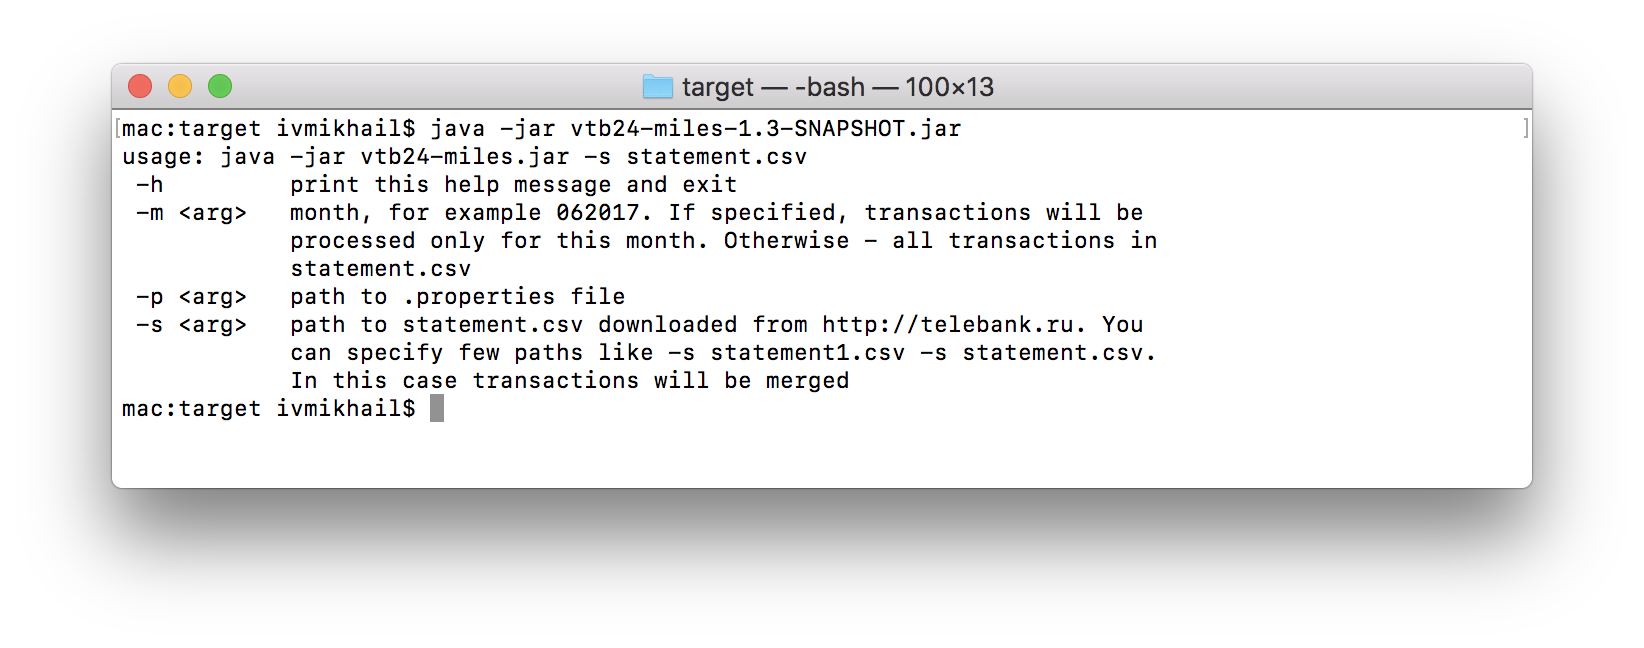
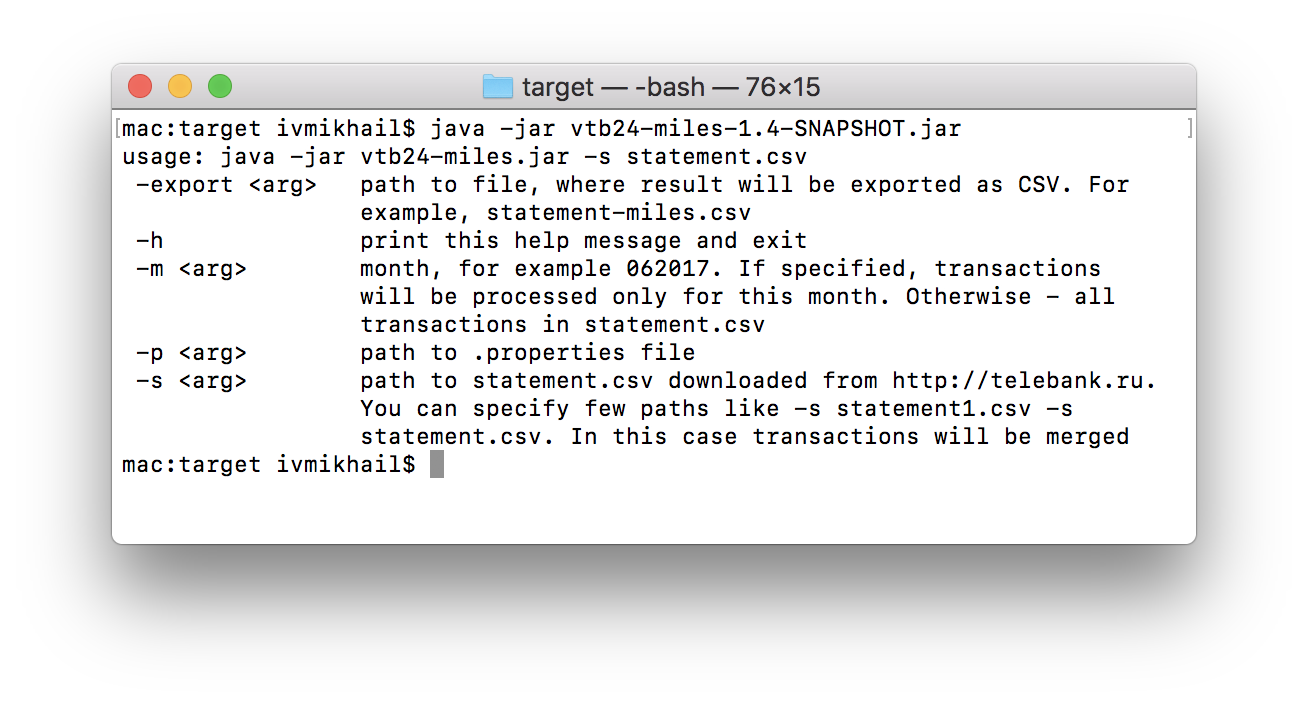
Fixed out charset on Win, export to csv feature

Changed region(s): [[0.0612, 0.0926, 0.948, 0.7716]]

diff --git a/src/main/java/com/github/ivmikhail/App.java b/src/main/java/com/github/ivmikhail/App.java
@@ -1,11 +1,7 @@
 package com.github.ivmikhail;
 
-import com.github.ivmikhail.fx.vtb.VTBFxProvider;
 import com.github.ivmikhail.reward.MilesRewardRule;
-import freemarker.template.Configuration;
-import freemarker.template.Template;
-import freemarker.template.TemplateException;
-import freemarker.template.TemplateExceptionHandler;
+import com.github.ivmikhail.reward.RewardResult;
 import org.apache.commons.cli.*;
 
 import java.io.*;
@@ -27,53 +23,42 @@ public final class App {
     private static final String OPT_MONTH = "m";
     private static final String OPT_PROPS_PATH = "p";
     private static final String OPT_HELP = "h";
-    private static final Options OPTS = createOptions();
+    private static final String OPT_EXPORT_PATH = "export";
 
-    private static final String TEMPLATES_CLASSPATH_DIR = "/templates";
-    private static final String TEMPLATE_REWARD_RESULT = "rewardResult.ftl";
+    private static final Options OPTS = createOptions();
 
     private App() {/* static class with Main method, no need to initialize */}
 
-    public static void main(String[] args) throws IOException, java.text.ParseException, TemplateException, InterruptedException {
+    public static void main(String[] args) throws IOException, java.text.ParseException {
         tryToMakeWorldBetter();
 
-        Settings settings = null;
+        CommandLine cli = null;
         try {
-            settings = parse(args);
+            cli = parse(args);
         } catch (org.apache.commons.cli.ParseException e) {
             printHelp(OPTS);
             System.exit(1);
         }
 
-        List<Transaction> transactions = CSVLoader.load(settings);
-        MilesRewardRule rule = new MilesRewardRule(settings.getProperties());
-        rule.setFxProvider(new VTBFxProvider(settings.getProperties()));
+        Settings settings = get(cli);
+        MilesRewardRule rule = new MilesRewardRule(settings);
+        RewardResult reward = rule.process();
 
-        Map model = new HashMap();
-        model.put("reward", rule.process(transactions));
-        model.put("settings", settings);
-
-        Template template = createTemplateEngine().getTemplate(TEMPLATE_REWARD_RESULT);
-        Writer out = new OutputStreamWriter(System.out);
-        template.process(model, out);
+        if(cli.hasOption(OPT_EXPORT_PATH)) {
+            ExportTo.csv(cli.getOptionValue(OPT_EXPORT_PATH), reward);
+        } else {
+            String txt = ExportTo.txt(reward);
+            System.out.println(txt);
+        }
     }
 
-    private static Configuration createTemplateEngine() {
-        Configuration cfg = new Configuration(Configuration.VERSION_2_3_27);
-        cfg.setClassForTemplateLoading(App.class, TEMPLATES_CLASSPATH_DIR);
-        cfg.setDefaultEncoding("UTF-8");
-        cfg.setTemplateExceptionHandler(TemplateExceptionHandler.RETHROW_HANDLER);
-        cfg.setLogTemplateExceptions(false);
-        cfg.setWrapUncheckedExceptions(true);
-        cfg.setAPIBuiltinEnabled(true);
-        return cfg;
-    }
-
-    private static Settings parse(String[] args) throws ParseException, IOException {
+    private static CommandLine parse(String[] args) throws ParseException {
         CommandLineParser parser = new DefaultParser();
-        CommandLine cli = parser.parse(OPTS, args);
+        return parser.parse(OPTS, args);
+    }
 
-        String[] paths = cli.getOptionValues(OPT_STATEMENT_PATH);
+    private static Settings get(CommandLine cli) {
+        String[] statementPaths = cli.getOptionValues(OPT_STATEMENT_PATH);
         String propertiesPath = cli.getOptionValue(OPT_PROPS_PATH);
 
         Properties properties;
@@ -99,7 +84,7 @@ public final class App {
         }
 
         Settings settings = new Settings();
-        settings.setPathsToStatement(paths);
+        settings.setPathsToStatement(statementPaths);
         settings.setMinDate(minDate);
         settings.setMaxDate(maxDate);
         settings.setProperties(properties);
@@ -112,20 +97,24 @@ public final class App {
         formatter.printHelp("java -jar vtb24-miles.jar -s statement.csv", options);
     }
 
-    private static Properties loadPropertiesFromClasspath() throws IOException {
+    private static Properties loadPropertiesFromClasspath() {
         Properties properties = new Properties();
         try (InputStream is = App.class.getResourceAsStream(PROPERTIES_CLASSPATH);
              InputStreamReader isr = new InputStreamReader(is, Charset.forName("UTF-8"))
         ) {
             properties.load(isr);
+        } catch (IOException e) {
+            throw new IllegalArgumentException(e);
         }
         return properties;
     }
 
-    private static Properties loadProperties(String path) throws IOException {
+    private static Properties loadProperties(String path) {
         Properties properties = new Properties();
         try (FileReader reader = new FileReader(path)) {
             properties.load(reader);
+        } catch (IOException e) {
+            throw new IllegalArgumentException(e);
         }
         return properties;
     }
@@ -161,11 +150,18 @@ public final class App {
                 .required(false)
                 .build());
 
+        options.addOption(Option
+                .builder(OPT_EXPORT_PATH)
+                .desc("path to file, where result will be exported as CSV. For example, statement-miles.csv")
+                .numberOfArgs(1)
+                .required(false)
+                .build());
+
         return options;
     }
 
-    private static void tryToMakeWorldBetter() throws InterruptedException, IOException {
-        if(isRunningOnWindows()) {
+    private static void tryToMakeWorldBetter() {
+        if (isRunningOnWindows()) {
             setOwnConsoleCodePage(65001);//unicode
         }
     }
@@ -174,10 +170,14 @@ public final class App {
         return System.getProperty("os.name").toLowerCase().contains("win");
     }
 
-    private static void setOwnConsoleCodePage(int codePage) throws IOException, InterruptedException {
+    private static void setOwnConsoleCodePage(int codePage) {
         ProcessBuilder pb = new ProcessBuilder("cmd.exe", "/c", "chcp", String.valueOf(codePage)).inheritIO();
-        Process p = pb.start();
-        int exitCode = p.waitFor();
-        if(exitCode != 0) LOG.warning("Failed to change code page, exit code " + exitCode);
+        try {
+            Process p = pb.start();
+            int exitCode = p.waitFor();
+            if (exitCode != 0) LOG.warning("Failed to change code page, exit code " + exitCode);
+        } catch (IOException | InterruptedException e) {
+            throw new IllegalStateException(e);
+        }
     }
 }

diff --git a/src/main/java/com/github/ivmikhail/ExportTo.java b/src/main/java/com/github/ivmikhail/ExportTo.java
@@ -1,0 +1,97 @@
+package com.github.ivmikhail;
+
+import com.github.ivmikhail.reward.RewardResult;
+import com.github.ivmikhail.reward.TransactionRewardResult;
+import freemarker.template.Configuration;
+import freemarker.template.Template;
+import freemarker.template.TemplateException;
+import freemarker.template.TemplateExceptionHandler;
+import org.apache.commons.csv.CSVFormat;
+import org.apache.commons.csv.CSVPrinter;
+
+import java.io.*;
+import java.util.HashMap;
+import java.util.List;
+import java.util.Map;
+
+public final class ExportTo {
+
+    private static final String TEMPLATES_CLASSPATH_DIR = "/templates";
+    private static final String TEMPLATE_REWARD_RESULT = "rewardResult.ftl";
+
+    private ExportTo() { /* helper class */}
+
+    public static String txt(RewardResult reward) {
+        Map model = new HashMap();
+        model.put("reward", reward);
+
+        try (Writer out = new StringWriter()) {
+            Template template = createTemplateEngine().getTemplate(TEMPLATE_REWARD_RESULT);
+            template.process(model, out);
+
+            return out.toString();
+        } catch (IOException | TemplateException e) {
+            throw new IllegalStateException(e);
+        }
+    }
+
+    private static Configuration createTemplateEngine() {
+        Configuration cfg = new Configuration(Configuration.VERSION_2_3_27);
+        cfg.setClassForTemplateLoading(App.class, TEMPLATES_CLASSPATH_DIR);
+        cfg.setDefaultEncoding("UTF-8");
+        cfg.setTemplateExceptionHandler(TemplateExceptionHandler.RETHROW_HANDLER);
+        cfg.setLogTemplateExceptions(false);
+        cfg.setWrapUncheckedExceptions(true);
+        cfg.setAPIBuiltinEnabled(true);
+        return cfg;
+    }
+
+    public static void csv(String filePath, RewardResult reward) throws IOException {
+        File f = new File(filePath);
+        if (!f.exists()) f.createNewFile();
+
+        try (
+                FileWriter out = new FileWriter(f);
+                CSVPrinter printer = new CSVPrinter(out, CSVFormat.EXCEL)
+        ) {
+            printTransactions(printer, "Операции с кэшбеком 4%", reward.getTransactionsMap().get(Transaction.Type.WITHDRAW_NORMAL));
+            printer.printRecord("");
+
+            printTransactions(printer, "Операции с кэшбеком 5%", reward.getTransactionsMap().get(Transaction.Type.WITHDRAW_FOREIGN));
+            printer.printRecord("");
+
+            printTransactions(printer, "Операции, кешбэк за которые не положен", reward.getTransactionsMap().get(Transaction.Type.WITHDRAW_IGNORE));
+            printer.printRecord("");
+
+            printTransactions(printer, "Пополнения", reward.getTransactionsMap().get(Transaction.Type.REFILL));
+            printer.printRecord("");
+
+            printer.printRecord("Период с" + reward.getSettings().getMinDate() + " c " + reward.getSettings().getMaxDate());
+            printer.printRecord("Всего миль получено     " + reward.getTotalRewardMiles());
+            printer.printRecord("Всего пополнений, в руб " + reward.getTotalRefillRUR());
+            printer.printRecord("Всего списаний  , в руб " + reward.getTotalWithdrawRUR());
+            printer.printRecord("Эффективный кэшбек %    " + reward.getEffectiveCashback());
+        }
+    }
+
+    private static void printTransactions(CSVPrinter printer, String title, List<TransactionRewardResult> transactions) throws IOException {
+        printer.printRecord(title);
+        printer.printRecord("СЧЕТ", "ДАТА ОБР", "ОПИСАНИЕ", "СУММА", "ВАЛЮТА", "МИЛИ");
+
+        if (transactions == null || transactions.isEmpty()) {
+            printer.printRecord("<нет операций>");
+            return;
+        }
+
+        for (TransactionRewardResult t : transactions) {
+            printer.printRecord(
+                    t.getTransaction().getAccountNumberMasked(),
+                    t.getTransaction().getProcessedDate(),
+                    t.getTransaction().getDescription(),
+                    t.getTransaction().getAmountInAccountCurrency(),
+                    t.getTransaction().getAccountCurrencyCode(),
+                    t.getMiles()
+            );
+        }
+    }
+}

diff --git a/src/main/java/com/github/ivmikhail/reward/MilesRewardRule.java b/src/main/java/com/github/ivmikhail/reward/MilesRewardRule.java
@@ -1,9 +1,14 @@
 package com.github.ivmikhail.reward;
 
+import com.github.ivmikhail.CSVLoader;
+import com.github.ivmikhail.Settings;
 import com.github.ivmikhail.Transaction;
 import com.github.ivmikhail.fx.FxProvider;
+import com.github.ivmikhail.fx.vtb.VTBFxProvider;
 
+import java.io.IOException;
 import java.math.BigDecimal;
+import java.text.ParseException;
 import java.util.*;
 
 /**
@@ -20,23 +25,46 @@ public class MilesRewardRule {
     private Set<String> foreignTransactionWords;
 
     private FxProvider fxProvider;
+    private Settings settings;
 
-    public MilesRewardRule(Properties properties) {
-        ignoreWords = getPropertyAsSet("MilesRewardRule.transactions.ignore.description", properties);
-        foreignTransactionWords = getPropertyAsSet("MilesRewardRule.transactions.foreign.description", properties);
+    public MilesRewardRule(Settings settings) {
+        this.settings = settings;
+        Properties properties = settings.getProperties();
+
+        if(properties == null) {
+            ignoreWords = new HashSet<>();
+            foreignTransactionWords = new HashSet<>();
+         } else {
+            fxProvider = new VTBFxProvider(properties);
+            ignoreWords = getPropertyAsSet("MilesRewardRule.transactions.ignore.description", properties);
+            foreignTransactionWords = getPropertyAsSet("MilesRewardRule.transactions.foreign.description", properties);
+        }
     }
 
     public void setFxProvider(FxProvider fxProvider) {
         this.fxProvider = fxProvider;
     }
 
-    public RewardResult process(List<Transaction> transactionList) {
+    public RewardResult process() {
+        return process(loadTransactions());
+    }
+
+    public RewardResult process(List<Transaction> transactions) {
         RewardResult result = new RewardResult();
-        for (Transaction t : transactionList) {
+        result.setSettings(settings);
+        for (Transaction t : transactions) {
             result.add(process(t));
         }
         if (fxProvider != null) fxProvider.clear();
         return result;
+    }
+
+    private List<Transaction> loadTransactions() {
+        try {
+            return CSVLoader.load(settings);
+        } catch (IOException | ParseException e) {
+            throw new IllegalStateException(e);
+        }
     }
 
     private TransactionRewardResult process(final Transaction t) {

diff --git a/src/main/java/com/github/ivmikhail/reward/RewardResult.java b/src/main/java/com/github/ivmikhail/reward/RewardResult.java
@@ -1,5 +1,6 @@
 package com.github.ivmikhail.reward;
 
+import com.github.ivmikhail.Settings;
 import com.github.ivmikhail.Transaction;
 
 import java.math.BigDecimal;
@@ -17,9 +18,18 @@ public class RewardResult {
     private BigDecimal totalWithdrawRUR = BigDecimal.ZERO;
 
     private Map<Transaction.Type, List<TransactionRewardResult>> transactionsMap;
+    private Settings settings;
 
     public RewardResult() {
         transactionsMap = new TreeMap<>();
+    }
+
+    public Settings getSettings() {
+        return settings;
+    }
+
+    public void setSettings(Settings settings) {
+        this.settings = settings;
     }
 
     public Map<Transaction.Type, List<TransactionRewardResult>> getTransactionsMap() {

diff --git a/src/test/java/com/github/ivmikhail/reward/MilesRewardRuleTest.java b/src/test/java/com/github/ivmikhail/reward/MilesRewardRuleTest.java
@@ -1,5 +1,6 @@
 package com.github.ivmikhail.reward;
 
+import com.github.ivmikhail.Settings;
 import com.github.ivmikhail.Transaction;
 import org.junit.Before;
 import org.junit.Test;
@@ -24,7 +25,10 @@ public class MilesRewardRuleTest {
         properties.setProperty("MilesRewardRule.transactions.ignore.description", "ignore, another ignore");
         properties.setProperty("MilesRewardRule.transactions.foreign.description", "foreign");
 
-        rule = new MilesRewardRule(properties);
+        Settings s = new Settings();
+        s.setProperties(properties);
+
+        rule = new MilesRewardRule(s);
 
         transaction = new Transaction();
         transaction.setAccountNumberMasked("123XXX1234");

diff --git a/src/test/java/com/github/ivmikhail/reward/RewardResultTest.java b/src/test/java/com/github/ivmikhail/reward/RewardResultTest.java
@@ -1,5 +1,6 @@
 package com.github.ivmikhail.reward;
 
+import com.github.ivmikhail.Settings;
 import com.github.ivmikhail.Transaction;
 import org.junit.Before;
 import org.junit.Test;
@@ -9,7 +10,6 @@ import java.time.LocalDate;
 import java.time.LocalDateTime;
 import java.util.ArrayList;
 import java.util.List;
-import java.util.Properties;
 import java.util.stream.Collectors;
 
 import static org.junit.Assert.assertEquals;
@@ -22,7 +22,7 @@ public class RewardResultTest {
     @Before
     public void setUp() {
 
-        rule = new MilesRewardRule(new Properties());
+        rule = new MilesRewardRule(new Settings());
         transactions = new ArrayList<>();
 
         Transaction t1;
